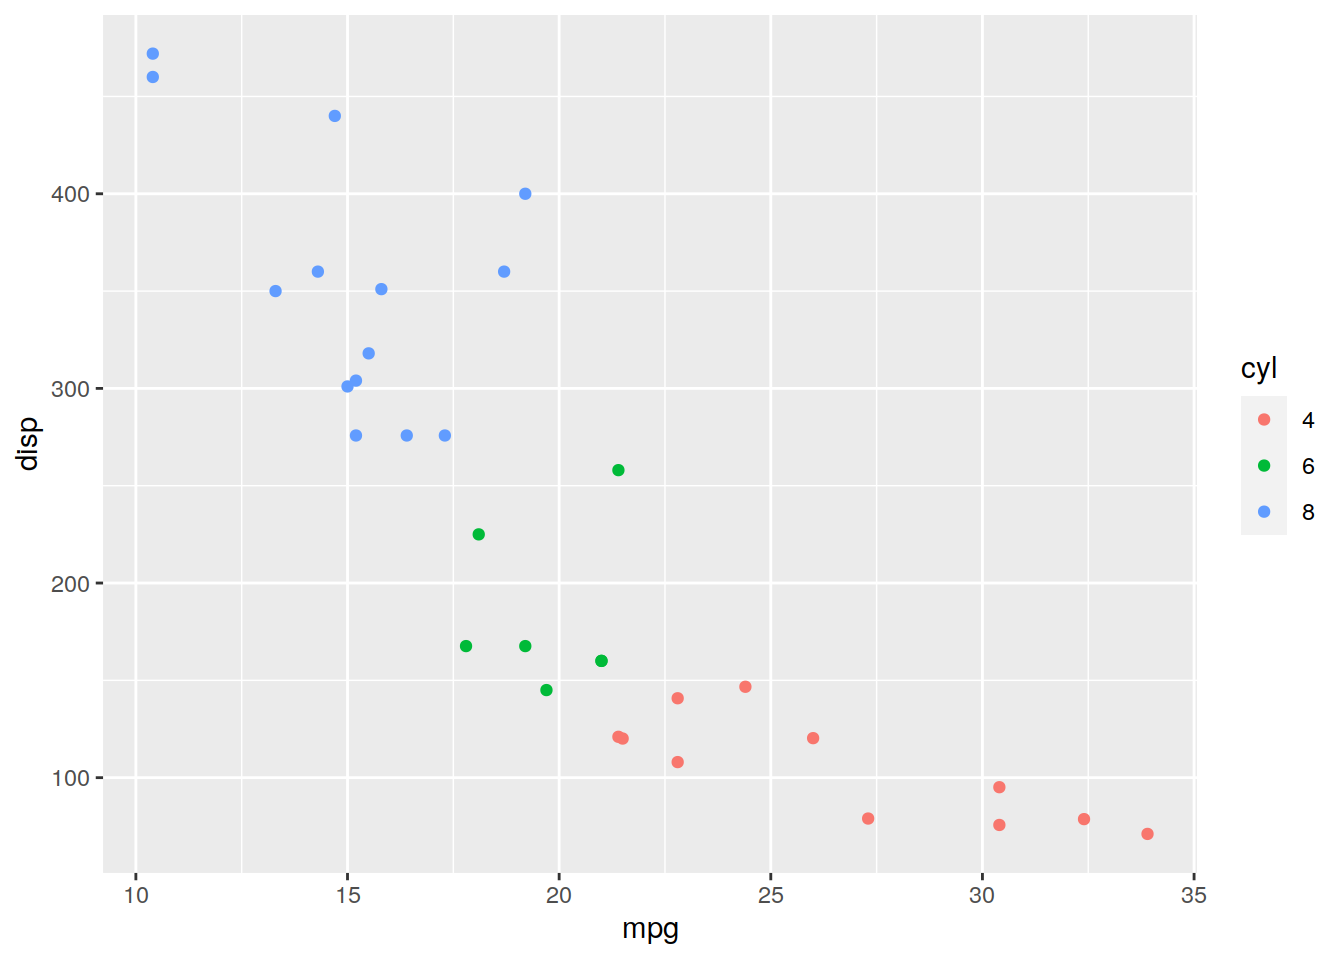
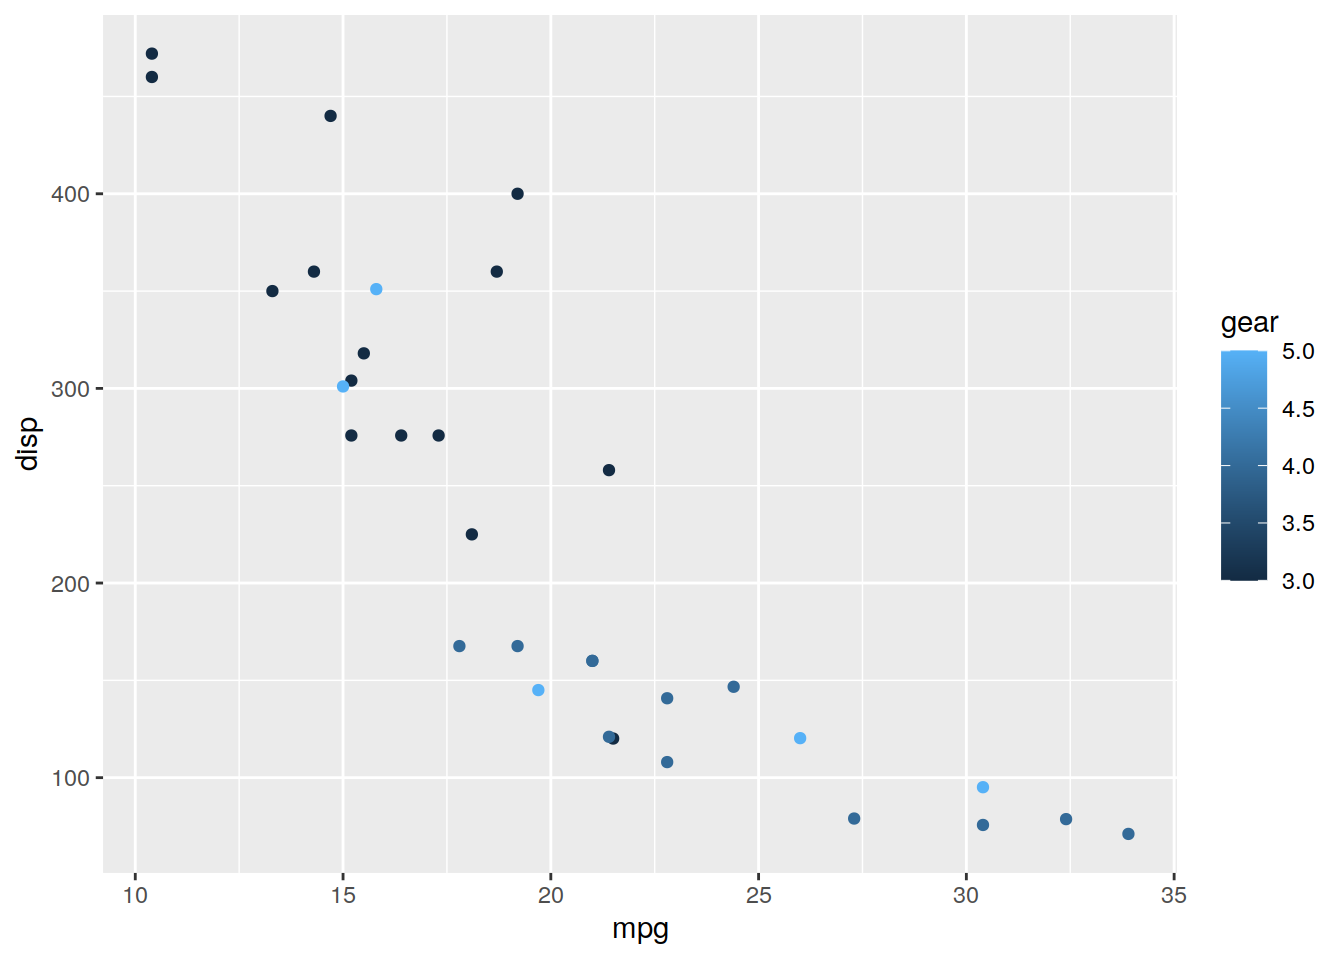
Build site.

diff --git a/docs/access_data.html b/docs/access_data.html
@@ -497,23 +497,24 @@ This reproducible <a href="http://rmarkdown.rstudio.com">R Markdown</a> analysis
 <div class="panel panel-default">
 <div class="panel-heading">
 <p class="panel-title">
-<a data-toggle="collapse" data-parent="#workflowr-checks" href="#strongRepositoryversionstrongahrefhttpsgithubcomjensdanielmuellerbgcargorargodatatree4e1aa6ed687b2391b47e8d03c93a43454758f210targetblank4e1aa6ea"> <span class="glyphicon glyphicon-ok text-success" aria-hidden="true"></span> <strong>Repository version:</strong> <a href="https://github.com/jens-daniel-mueller/bgc_argo_r_argodata/tree/4e1aa6ed687b2391b47e8d03c93a43454758f210" target="_blank">4e1aa6e</a> </a>
+<a data-toggle="collapse" data-parent="#workflowr-checks" href="#strongRepositoryversionstrongahrefhttpsgithubcomjensdanielmuellerbgcargorargodatatreeabbfaf7de0702450edd6f9e03404f35f5f7026e2targetblankabbfaf7a"> <span class="glyphicon glyphicon-ok text-success" aria-hidden="true"></span> <strong>Repository version:</strong> <a href="https://github.com/jens-daniel-mueller/bgc_argo_r_argodata/tree/abbfaf7de0702450edd6f9e03404f35f5f7026e2" target="_blank">abbfaf7</a> </a>
 </p>
 </div>
[2 lines of base64/hex data omitted]
 <div class="panel-body">
 <p>
 Great! You are using Git for version control. Tracking code development and connecting the code version to the results is critical for reproducibility.
 </p>
 <p>
-The results in this page were generated with repository version <a href="https://github.com/jens-daniel-mueller/bgc_argo_r_argodata/tree/4e1aa6ed687b2391b47e8d03c93a43454758f210" target="_blank">4e1aa6e</a>. See the <em>Past versions</em> tab to see a history of the changes made to the R Markdown and HTML files.
+The results in this page were generated with repository version <a href="https://github.com/jens-daniel-mueller/bgc_argo_r_argodata/tree/abbfaf7de0702450edd6f9e03404f35f5f7026e2" target="_blank">abbfaf7</a>. See the <em>Past versions</em> tab to see a history of the changes made to the R Markdown and HTML files.
 </p>
 <p>
 Note that you need to be careful to ensure that all relevant files for the analysis have been committed to Git prior to generating the results (you can use <code>wflow_publish</code> or <code>wflow_git_commit</code>). workflowr only checks the R Markdown file, but you know if there are other scripts or data files that it depends on. Below is the status of the Git repository when the results were generated:
 </p>
 <pre><code>
-Untracked files:
-    Untracked:  code/Workflowr_project_managment.R
+Ignored files:
+    Ignored:    .Rhistory
+    Ignored:    .Rproj.user/
 
 </code></pre>
 <p>
@@ -552,6 +553,40 @@ Message
 </tr>
 </thead>
 <tbody>
+<tr>
+<td>
+Rmd
+</td>
+<td>
+<a href="https://github.com/jens-daniel-mueller/bgc_argo_r_argodata/blob/abbfaf7de0702450edd6f9e03404f35f5f7026e2/analysis/access_data.Rmd" target="_blank">abbfaf7</a>
+</td>
+<td>
+jens-daniel-mueller
+</td>
+<td>
+2021-10-08
+</td>
+<td>
+changed cyl to gear
+</td>
+</tr>
+<tr>
+<td>
+html
+</td>
+<td>
+<a href="https://rawcdn.githack.com/jens-daniel-mueller/bgc_argo_r_argodata/58ca4ae8c2bfefd6b7107bcae660bacc465e17e3/docs/access_data.html" target="_blank">58ca4ae</a>
+</td>
+<td>
+jens-daniel-mueller
+</td>
+<td>
+2021-10-08
+</td>
+<td>
+Build site.
+</td>
+</tr>
 <tr>
 <td>
 Rmd
@@ -652,7 +687,7 @@ XXX
 <p>Descriptive text</p>
 <pre class="r"><code>mtcars %&gt;% 
   mutate(cyl = as.factor(cyl)) %&gt;% 
-  ggplot(aes(mpg, disp, col=cyl)) +
+  ggplot(aes(mpg, disp, col=gear)) +
   geom_point()</code></pre>
 <p><img src="figure/access_data.Rmd/plot_mtcars-1.png" width="672" style="display: block; margin: auto;" /></p>
 <p>
